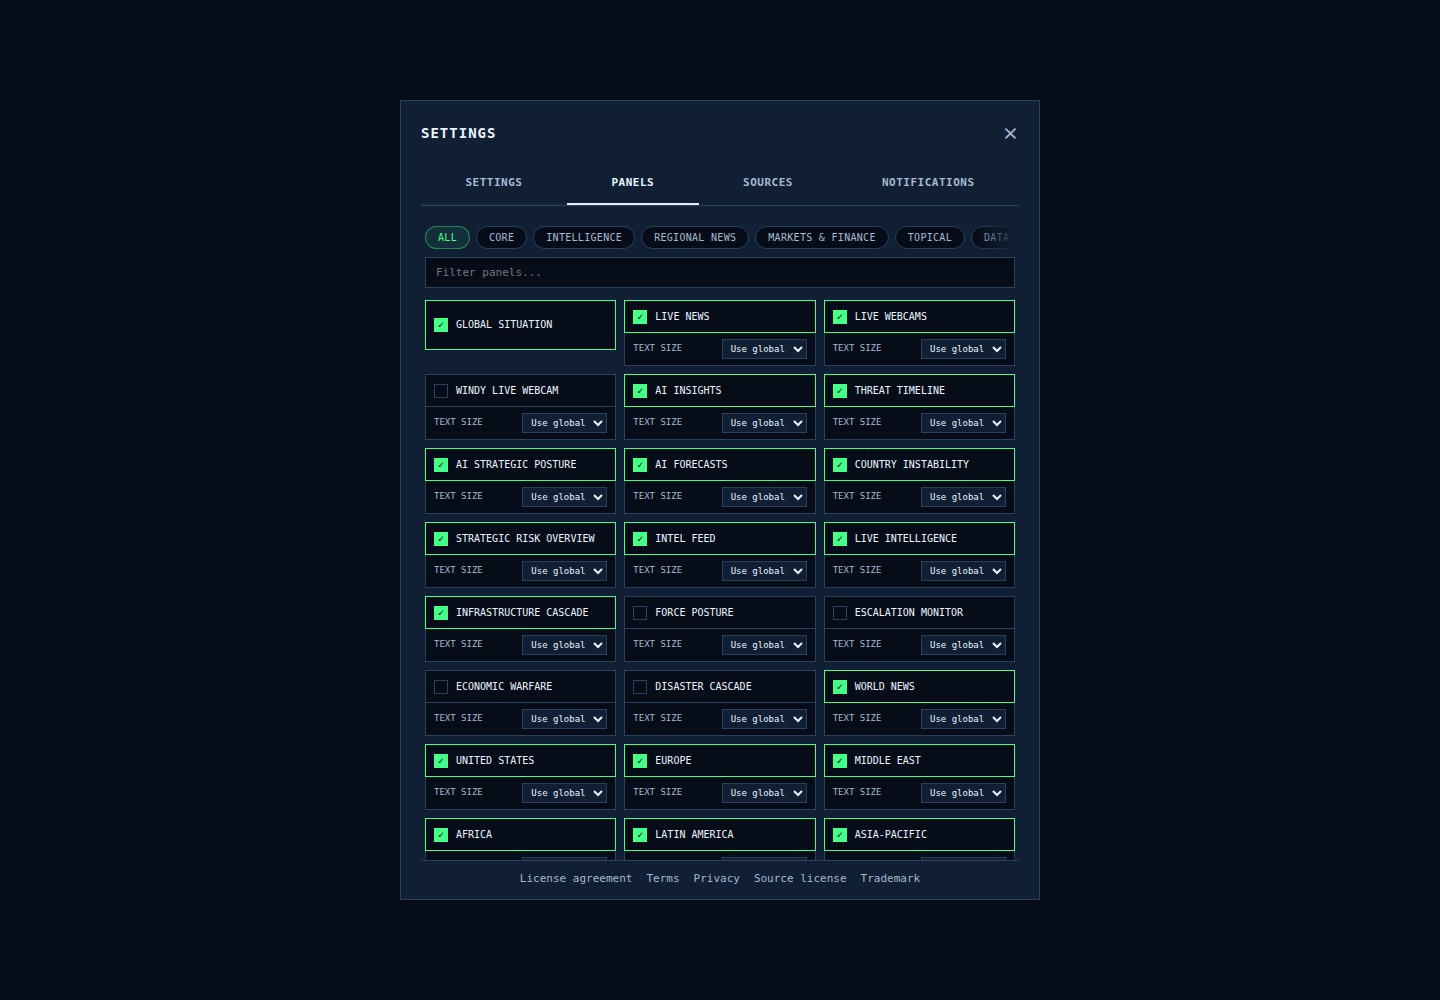
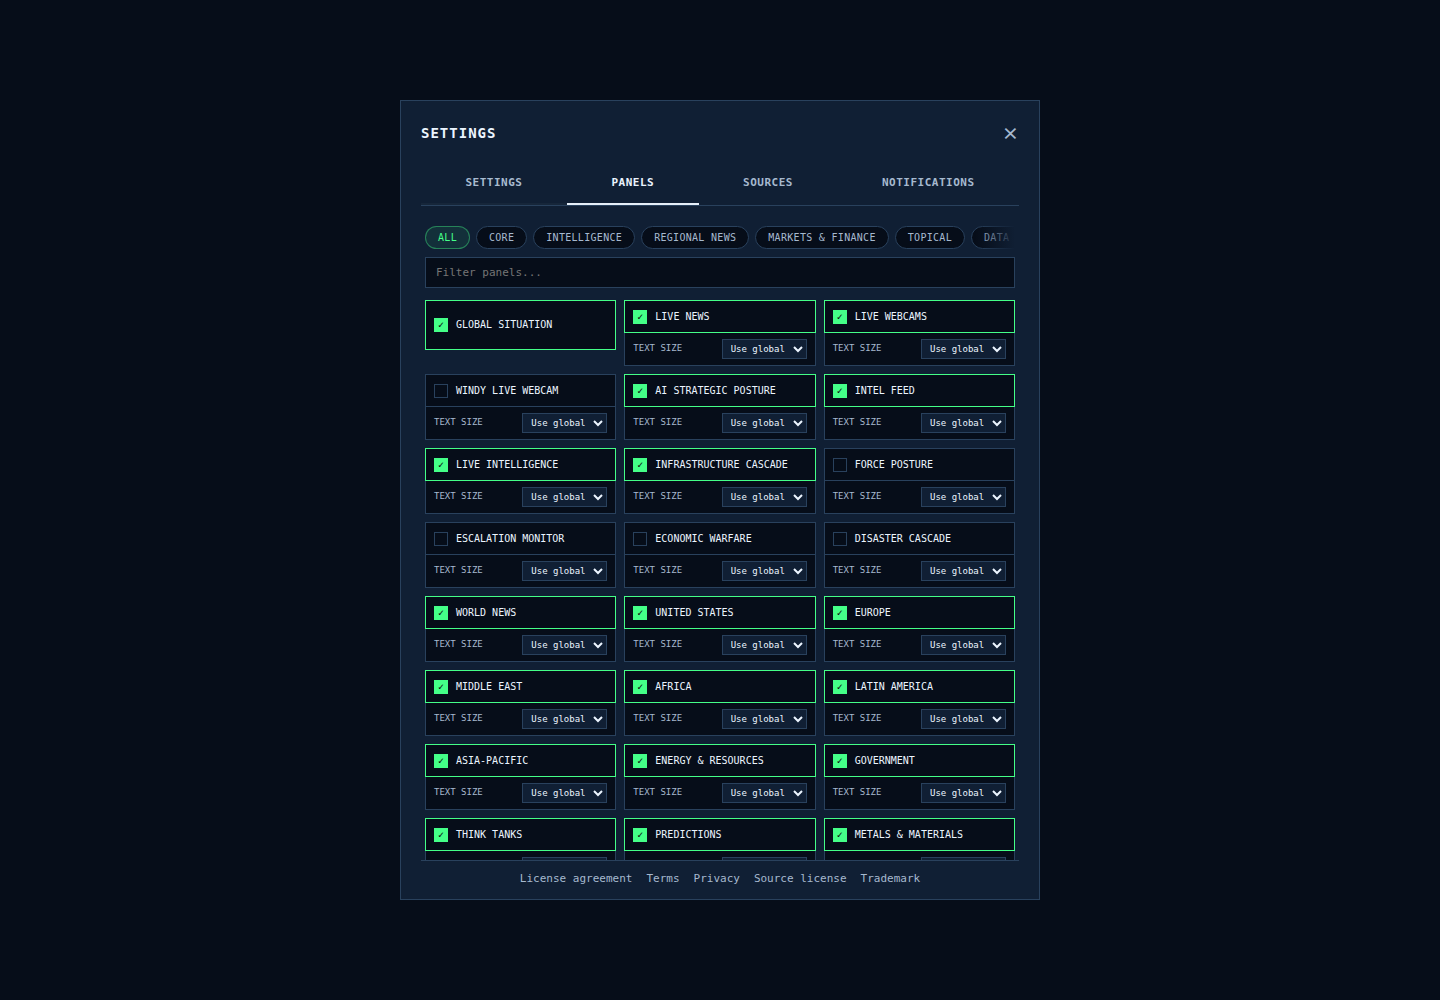
Hide PlanetSlam modules while their data sources are unavailable

diff --git a/e2e/planetslam-foundation.spec.ts b/e2e/planetslam-foundation.spec.ts
@@ -69,3 +69,73 @@ for (const width of [1440, 768, 390]) {
     await testInfo.attach('viewport', { body: JSON.stringify({ width, branded, controlledResponses: true }), contentType: 'application/json' });
   });
 }
+
+for (const width of [1440, 390]) {
+  test(`source availability: hides and restores modules at ${width}px`, async ({ page }, testInfo) => {
+    test.skip(!branded, 'PlanetSlam-only visibility policy');
+    await page.setViewportSize({ width, height: 1000 });
+    await seedAnonymousDashboard(page, 'full', {
+      initializeOnce: { sessionKey: 'ps-source-profile', clearStorage: true, localStorage: {
+        'mobile-map-collapsed': 'false',
+        'worldmonitor-panels': JSON.stringify({
+          climate: { name: 'Climate Anomalies', enabled: true, priority: 0 },
+          politics: { name: 'World News', enabled: true, priority: 0 },
+        }),
+        'panel-order': JSON.stringify(['climate', 'politics']),
+      } },
+    });
+    await page.route('**/api/**', route => route.fulfill({ json: {} }));
+    await page.route('**/api/bootstrap*', route => route.fulfill({ json: { missing: [], data: {} } }));
+    let available = true;
+    let healthRequests = 0;
+    await page.route('**/api/health?*', route => {
+      healthRequests++;
+      return route.fulfill({ json: {
+        status: available ? 'OK' : 'DEGRADED',
+        checkedAt: new Date().toISOString(),
+        checks: {
+          climateAnomalies: { status: available ? 'OK' : 'EMPTY_DATA', records: 0, seedAgeMin: 0 },
+          climateDisasters: { status: available ? 'OK' : 'EMPTY_DATA', records: 0, seedAgeMin: 0 },
+          climateAirQuality: { status: available ? 'OK' : 'EMPTY_DATA', records: 0, seedAgeMin: 0 },
+        },
+      } });
+    });
+    await page.clock.install();
+    await page.goto('/dashboard', { waitUntil: 'domcontentloaded' });
+    await expect.poll(() => healthRequests, { timeout: 60_000 }).toBeGreaterThan(0);
+    const climate = page.locator('#panelsGrid .panel[data-panel="climate"]');
+    await expect(climate).toBeAttached({ timeout: 60_000 });
+    await climate.scrollIntoViewIfNeeded();
+    await expect(climate).toBeVisible();
+    await expect(climate.locator('.panel-empty')).toBeVisible();
+    await page.screenshot({ path: `docs/planetslam/evidence/planetslam-${width}-source-working.png` });
+
+    const initialRequests = healthRequests;
+    available = false;
+    await page.clock.fastForward(301_000);
+    await expect.poll(() => healthRequests).toBeGreaterThan(initialRequests);
+    await expect(climate).toHaveClass(/panel-source-unavailable/);
+    await expect(climate).toBeHidden();
+    expect(await page.evaluate(() => JSON.parse(localStorage.getItem('worldmonitor-panels')!).climate.enabled)).toBe(true);
+    await page.screenshot({ path: `docs/planetslam/evidence/planetslam-${width}-source-unavailable.png` });
+
+    if (width <= 768) {
+      await page.locator('[data-mobile-tab="more"]').click();
+      await page.locator('#mobileMenuSettings').click();
+    } else await page.locator('#unifiedSettingsBtn').click();
+    await page.locator('#us-tab-panels').click();
+    const climateSetting = page.locator('#usPanelToggles [data-panel="climate"]');
+    await expect(climateSetting).toHaveCount(0);
+
+    const failedRequests = healthRequests;
+    available = true;
+    await page.clock.fastForward(301_000);
+    await expect.poll(() => healthRequests).toBeGreaterThan(failedRequests);
+    await expect(climate).not.toHaveClass(/panel-source-unavailable/);
+    await expect(climateSetting).toHaveCount(1);
+    await page.locator('.unified-settings-close').click();
+    await expect(climate).toBeVisible();
+    await page.screenshot({ path: `docs/planetslam/evidence/planetslam-${width}-source-restored.png` });
+    await testInfo.attach('source-availability', { body: JSON.stringify({ width, healthRequests, controlledHealthResponses: true }), contentType: 'application/json' });
+  });
+}

diff --git a/src/components/Panel.ts b/src/components/Panel.ts
@@ -1,3 +1,5 @@
+import { IS_PLANETSLAM } from '@/config/brand';
+import { hasNoWorkingPanelSource, setPanelSourceUnavailable } from '@/services/panel-source-availability';
 import { isDesktopRuntime } from '../services/runtime';
 import { invokeTauri } from '../services/tauri-bridge';
 import { t } from '../services/i18n';
@@ -143,6 +145,17 @@ export class Panel {
   protected countEl: HTMLElement | null = null;
   protected statusBadgeEl: HTMLElement | null = null;
   protected newBadgeEl: HTMLElement | null = null;
+  private sourceFailures = new Set<'request' | 'badge' | 'health'>();
+
+  private updateSourceAvailability(reason: 'request' | 'badge' | 'health', unavailable: boolean): void {
+    if (!IS_PLANETSLAM) return;
+    if (unavailable) this.sourceFailures.add(reason);
+    else this.sourceFailures.delete(reason);
+    const hidden = this.sourceFailures.size > 0;
+    this.element.classList.toggle('panel-source-unavailable', hidden);
+    setPanelSourceUnavailable(this.panelId, this, hidden);
+  }
+
   private freshnessBadgeEl: HTMLElement | null = null;
   private freshnessUnsubscribe: (() => void) | null = null;
   private freshnessRefreshTimer: ReturnType<typeof setInterval> | null = null;
@@ -823,6 +836,7 @@ export class Panel {
     detail?: string,
     detailTitle?: string,
   ): void {
+    this.updateSourceAvailability('badge', state === 'unavailable');
     if (!this.statusBadgeEl) return;
     const labels = {
       live: t('common.live'),
@@ -848,6 +862,7 @@ export class Panel {
   }
 
   protected updateFreshnessBadge(summary: PanelFreshnessSummary | null = dataFreshness.getPanelFreshness(this.panelId)): void {
+    this.updateSourceAvailability('health', hasNoWorkingPanelSource(summary));
     if (!this.freshnessBadgeEl) return;
     if (!summary) {
       this.freshnessBadgeEl.style.display = 'none';
@@ -1076,6 +1091,11 @@ export class Panel {
   public isNearViewport(marginPx = 400): boolean {
     if (!this.element.isConnected) return false;
     if (typeof window === 'undefined') return true;
+    // Keep scheduled probes alive while automatically hidden, so recovery can
+    // restore the module. Explicit user/category hiding still wins.
+    if (IS_PLANETSLAM && this.sourceFailures.size > 0
+      && !this.element.classList.contains('hidden')
+      && !this.element.classList.contains('mobile-cat-hidden')) return true;
 
     const style = window.getComputedStyle(this.element);
     if (style.display === 'none' || style.visibility === 'hidden') return false;
@@ -1181,6 +1201,7 @@ export class Panel {
    * `setContent*` helpers instead, which clear as part of the write.
    */
   public clearErrorState(): void {
+    this.updateSourceAvailability('request', false);
     this.setErrorState(false);
     this.clearRetryCountdown();
     this.retryAttempt = 0;
@@ -1455,6 +1476,7 @@ export class Panel {
   }
 
   public showConfigError(message: string): void {
+    this.updateSourceAvailability('request', true);
     const msgEl = h('div', { className: 'config-error-message' }, message);
     if (isDesktopRuntime()) {
       msgEl.appendChild(
@@ -1481,6 +1503,7 @@ export class Panel {
   }
 
   public setErrorState(hasError: boolean, tooltip?: string): void {
+    if (hasError) this.updateSourceAvailability('request', true);
     this.header.classList.toggle('panel-header-error', hasError);
     if (tooltip) {
       this.header.title = tooltip;
@@ -1742,6 +1765,7 @@ export class Panel {
   }
 
   public destroy(): void {
+    setPanelSourceUnavailable(this.panelId, this, false);
     this.destroyed = true;
     this.abortController.abort();
     this.clearRetryCountdown();

diff --git a/src/components/UnifiedSettings.ts b/src/components/UnifiedSettings.ts
@@ -1,3 +1,4 @@
+import { isPanelSourceUnavailable, subscribePanelSourceAvailability } from '@/services/panel-source-availability';
 import { IS_PLANETSLAM } from '@/config/brand';
 import { isPanelHiddenForBrand } from '@/config/panels';
 import { CANONICAL_FEEDS, INTEL_SOURCES, SOURCE_REGION_MAP } from '@/config/feeds';
@@ -184,6 +185,7 @@ export class UnifiedSettings {
   private accountUserId: string | null = getAuthState().user?.id ?? null;
   private accountDataGeneration = 0;
   private accountEntitlementRefreshPending = false;
+  private unsubscribeSourceAvailability: (() => void) | null = null;
   private unsubscribeAuth: (() => void) | null = null;
   private unsubscribeEntitlement: (() => void) | null = null;
   private unsubscribeEntitlementVerification: (() => void) | null = null;
@@ -207,6 +209,9 @@ export class UnifiedSettings {
     this.focusTrap = createFocusTrap(this.overlay);
     this.businessSeatsSection = new BusinessSeatsSection(this.overlay);
 
+    this.unsubscribeSourceAvailability = subscribePanelSourceAvailability(() => {
+      if (this.overlay.isConnected && this.activeTab === 'panels') this.renderPanelsTab();
+    });
     this.resetPanelDraft();
 
     this.escapeHandler = (e: KeyboardEvent) => {
@@ -804,6 +809,8 @@ export class UnifiedSettings {
   }
 
   public destroy(): void {
+    this.unsubscribeSourceAvailability?.();
+    this.unsubscribeSourceAvailability = null;
     if (this.historyRegistered) overlayHistory.close('settings');
     this.historyRegistered = false;
     if (this.savedTimeout) clearTimeout(this.savedTimeout);
@@ -1427,7 +1434,7 @@ export class UnifiedSettings {
   private getVisiblePanelEntries(): Array<[string, PanelConfig]> {
     const panelSettings = this.draftPanelSettings;
     let entries = Object.entries(panelSettings)
-      .filter(([key]) => !isPanelHiddenForBrand(key))
+      .filter(([key]) => !isPanelHiddenForBrand(key) && !isPanelSourceUnavailable(key))
       .filter(([key]) => key !== 'runtime-config' || this.config.isDesktopApp)
       .filter(([key]) => !key.startsWith('cw-'));
 

diff --git a/src/services/panel-source-availability.ts b/src/services/panel-source-availability.ts
@@ -1,0 +1,37 @@
+import { IS_PLANETSLAM } from '@/config/brand';
+import type { PanelFreshnessSummary } from '@/services/data-freshness';
+
+// Session-only evidence: never overwrite a user's saved panel selection.
+const unavailableOwners = new Map<string, Set<object>>();
+const listeners = new Set<() => void>();
+
+export function isPanelSourceUnavailable(id: string): boolean {
+  return IS_PLANETSLAM && (unavailableOwners.get(id)?.size ?? 0) > 0;
+}
+
+export function setPanelSourceUnavailable(id: string, owner: object, unavailable: boolean): void {
+  if (!IS_PLANETSLAM) return;
+  const before = isPanelSourceUnavailable(id);
+  const owners = unavailableOwners.get(id) ?? new Set<object>();
+  if (unavailable) owners.add(owner);
+  else owners.delete(owner);
+  if (owners.size) unavailableOwners.set(id, owners);
+  else unavailableOwners.delete(id);
+  if (before !== isPanelSourceUnavailable(id)) {
+    for (const listener of listeners) listener();
+  }
+}
+
+export function subscribePanelSourceAvailability(listener: () => void): () => void {
+  listeners.add(listener);
+  return () => listeners.delete(listener);
+}
+
+export function hasNoWorkingPanelSource(summary: PanelFreshnessSummary | null): boolean {
+  // Unknown, stale-but-usable, and successful zero-event feeds stay visible.
+  // A panel with a working fallback stays visible when another source fails.
+  if (!summary?.sources.length) return false;
+  return summary.sources.every(source =>
+    source.status === 'error' || source.status === 'no_data' || source.status === 'disabled',
+  );
+}

diff --git a/src/styles/planetslam.css b/src/styles/planetslam.css
@@ -82,6 +82,7 @@ html[data-brand="planetslam"] .site-footer-name { color: var(--accent); }
 
 /* Paid upstream features are not offered by the PlanetSlam dashboard. */
 html[data-brand="planetslam"] .panel-is-locked,
+html[data-brand="planetslam"] .panel-source-unavailable,
 html[data-brand="planetslam"] .pro-preview,
 html[data-brand="planetslam"] .layer-toggle-locked,
 html[data-brand="planetslam"] .resilience-widget__locked,

diff --git a/docs/planetslam/ARCHITECTURE.md b/docs/planetslam/ARCHITECTURE.md
@@ -18,6 +18,12 @@ Browser -> existing generated RPC clients -> existing Vite local handlers / self
 
 `branding/vite-plugin.ts` sets dashboard HTML identity and noindex, removes dashboard canonical claims and supplies the SVG icon. Small hooks in Vite, main, panel layout and banner select the brand and suppress the upstream Pro launch promotion. The brand HTML transform also disables its prepaint reservation to prevent a blank strip. New visits default to the existing 2D map. Explicit stored map choice wins, and upstream capability/failure fallbacks stay in place. Existing responsive panels, map controls, search, layer selection and feeds are reused. Other upstream marketing/reference pages and PWA identities are retained unless explicitly documented as customized: this is a dashboard foundation, not a complete public-site rebrand.
 
+## Module availability
+
+PlanetSlam hides locked upstream premium panels and their upgrade entry points. It also hides a module when its panel reports a request/configuration failure or an unavailable data badge, or when all of its health-mapped sources report errors, disabled status, or confirmed missing data. The same session-only state filters panel settings. It never infers server API-key configuration from browser secrets.
+
+Unknown source health, usable stale data, successful empty event feeds, and panels with a working fallback remain visible. Hidden modules retain their saved enabled state and remain eligible for scheduled probes; a successful render or recovered health restores them. The policy covers existing explicit panel and mapped-health signals, not a complete independent provider inventory. Modules without such evidence are left visible until they report a failure. Default World Monitor builds retain their upstream behavior.
+
 ## Untrusted data
 
 Provider payloads, headlines, embedded streams, coordinates and URLs are untrusted. Keep upstream schema validation, bounded fetches, cache isolation, sanitization, safe HTML boundaries and URL checks; do not interpolate feed content into branding markup. No new raw HTML rendering or proxy is added. RSS/Telegram availability is not truth verification. LLM output is advisory and must never be an execution instruction. Before public staging, review CSP destinations, streaming embeds and direct browser fetches; reject credentials in VITE_* except explicitly public configuration such as a publishable identifier.
